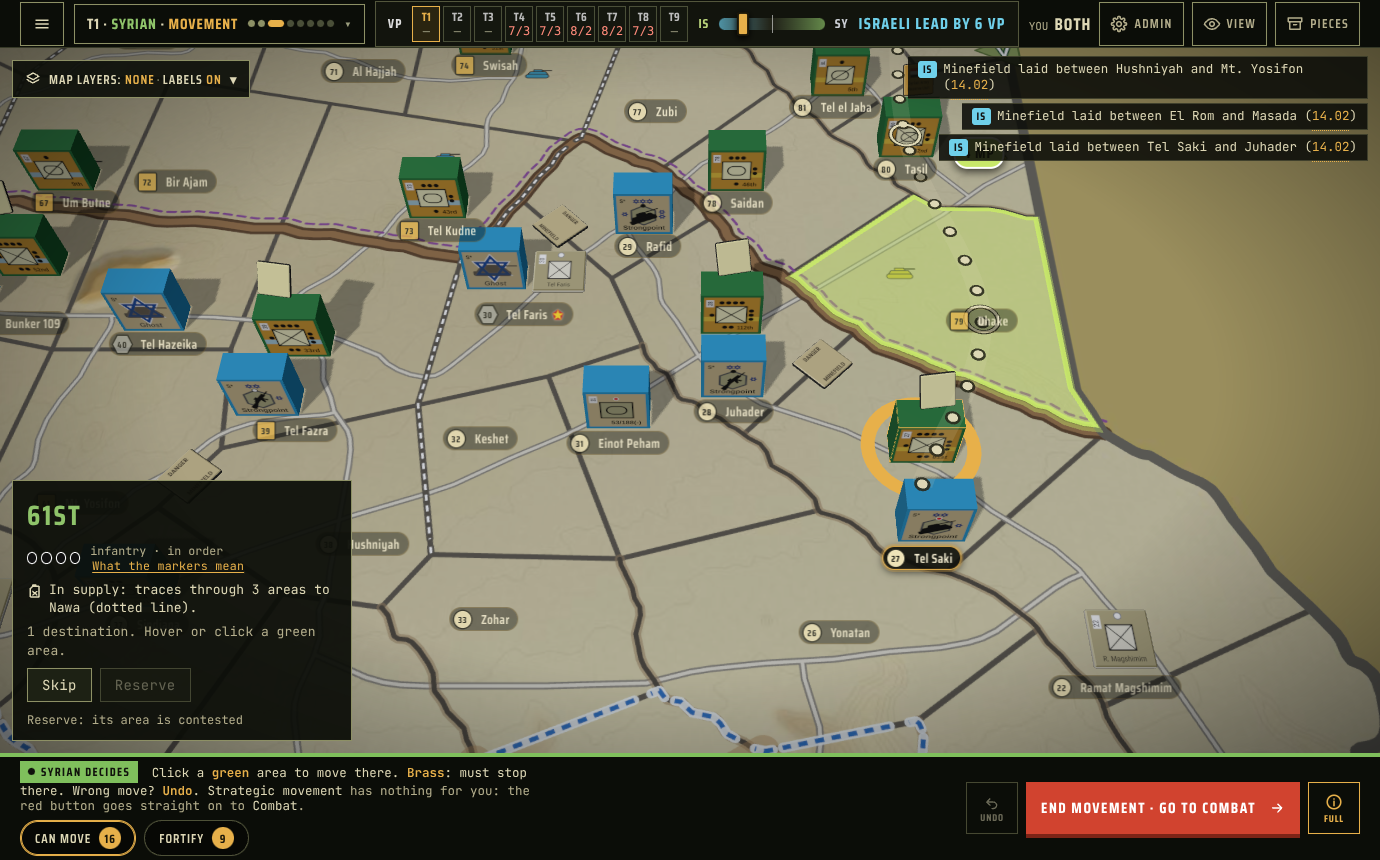
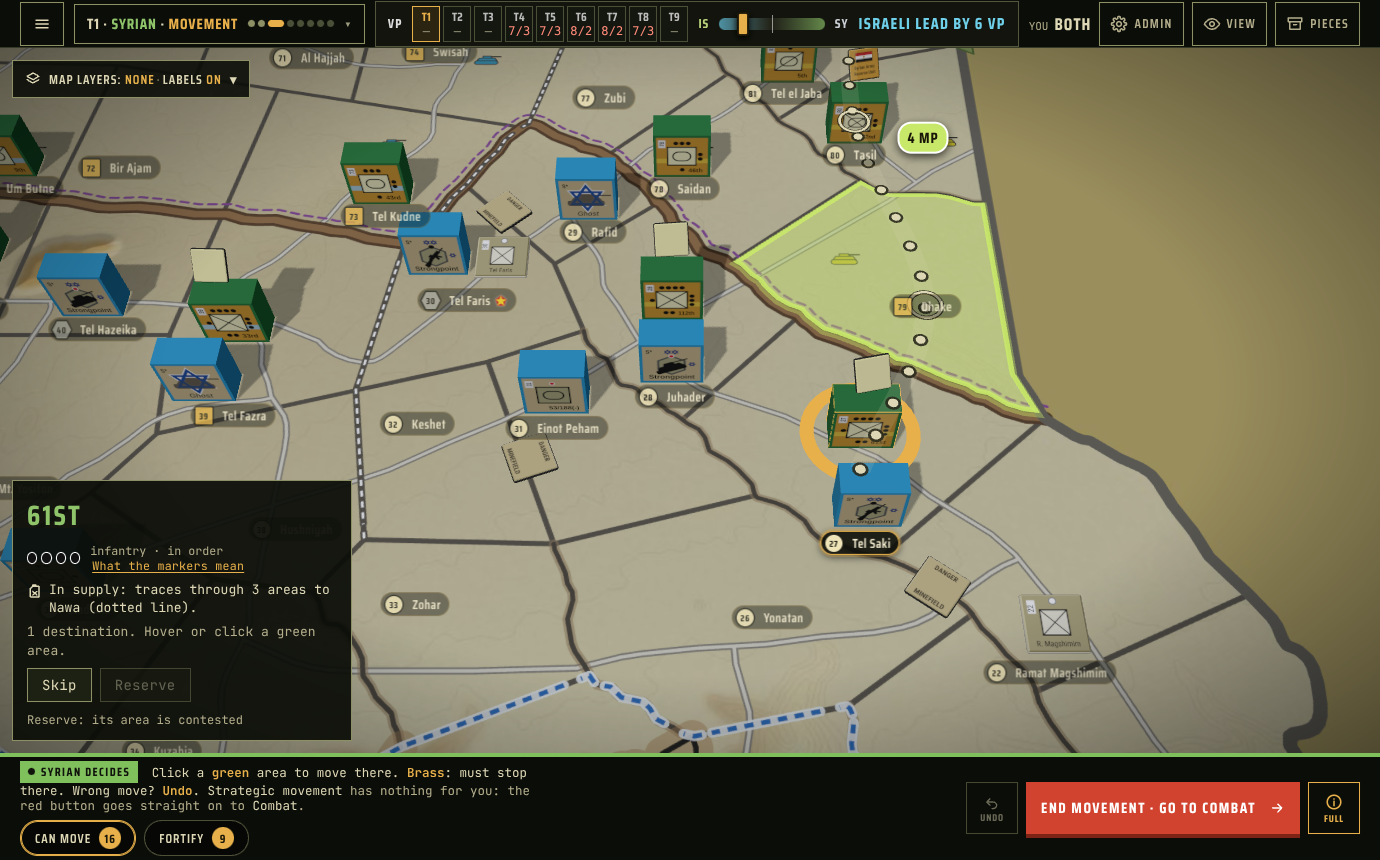
Phone move cost: a small plain number inside each green destination (no pill, none dropped; one past the screen edge sits at the nearest edge); brass = must stop, drop = fuel, ! = out of supply. Desktop keeps the badges (owner, 16 Nov)
Claude-Session: https://claude.ai/code/session_01ME3JNWPCjyD5txMyWoKnu2

diff --git a/web/src/css/bars.css b/web/src/css/bars.css
@@ -429,14 +429,44 @@
     font-size: 13px;
   }
 }
-/* phone: smaller move badges, so neighbouring areas' costs fit side by side (design review 16 Nov) */
+/* phone: the move cost is a small plain number inside its green area, no pill; brass = must stop, a drop = fuel, ! = out of supply there (owner, 16 Nov) */
 @media (max-width: 700px) {
   #badges .bdg.ok,
   #badges .bdg.stop,
+  #badges .bdg.fuel,
+  #badges .bdg.ok.nosup,
+  #badges .bdg.nosup {
+    min-width: 0;
+    padding: 0 2px;
+    border: 0 !important;
+    border-radius: 0;
+    box-shadow: none;
+    background: none !important;
+    font-size: 17px;
+    letter-spacing: 0;
+    line-height: 1;
+    opacity: 1;
+  }
+  #badges .bdg.ok {
+    color: #14210a !important;
+    text-shadow:
+      0 0 2px #f1f8d4,
+      0 0 4px #f1f8d4,
+      0 0 6px #f1f8d4;
+  }
+  #badges .bdg.stop,
   #badges .bdg.fuel {
-    padding: 1px 6px;
-    font-size: 12px;
-    letter-spacing: 0.02em;
-    border-width: 1.5px;
+    color: #5a3600 !important;
+    text-shadow:
+      0 0 2px #ffe9b0,
+      0 0 4px #ffe9b0,
+      0 0 6px #ffe9b0;
+  }
+  #badges .bdg.nosup {
+    color: #8c1d0e !important;
+    text-shadow:
+      0 0 2px #fff,
+      0 0 4px #fff,
+      0 0 6px #fff;
   }
 }

diff --git a/web/src/map-marks.ts b/web/src/map-marks.ts
@@ -742,7 +742,18 @@ export function placeBadges() {
       hw = d.offsetWidth / 2 + 6,
       hh = d.offsetHeight / 2 + 6,
       out = sx < hw || sx > r.width - hw || sy < hh || sy > r.height - hh;
-    if (keep) {
+    if (keep && innerWidth < 700) {
+      // phone: a plain number in its own area, a little above the label; one whose area is off the screen sits at the nearest edge, so none is dropped (owner, 16 Nov)
+      sy -= 12;
+      const dr = document.querySelector('#ui .mapdock')?.getBoundingClientRect(),
+        top = hh + 4,
+        bot = cardTop - hh - 4;
+      sx = Math.min(r.width - hw, Math.max(hw, sx));
+      sy = Math.min(bot, Math.max(top, sy));
+      if (dr && sx - hw < dr.right - r.left && sy < dockBottom + hh) sy = dockBottom + hh; // not under the Layers and Deselect buttons
+      badgeBoxes.push({ x0: sx - hw, x1: sx + hw, y0: sy - hh, y1: sy + hh });
+      d.classList.toggle('edge', out);
+    } else if (keep) {
       const top = Math.max(hh, dockBottom + hh),
         bot = Math.min(r.height, cardTop) - hh;
       sx = Math.min(r.width - hw, Math.max(hw, sx));

diff --git a/web/src/routes.ts b/web/src/routes.ts
@@ -298,7 +298,12 @@ export function badgeList(): Badge[] {
     for (const o of optsFor(selUnit))
       out.push({
         area: o.area,
-        text: g.phase === 'strategic' ? '' : `${o.cost} MP${noSup.has(o.area) ? ' · no supply' : ''}`,
+        text:
+          g.phase === 'strategic'
+            ? ''
+            : innerWidth < 700
+              ? `${o.cost}${noSup.has(o.area) ? '!' : ''}`
+              : `${o.cost} MP${noSup.has(o.area) ? ' · no supply' : ''}`, // phone: the cost as a small number in its area, ! = out of supply there (owner, 16 Nov)
         cls: (o.mustStop ? 'stop' : o.fuel && u.side === 'german' ? 'fuel' : 'ok') + (noSup.has(o.area) ? ' nosup' : ''),
       });
   }
